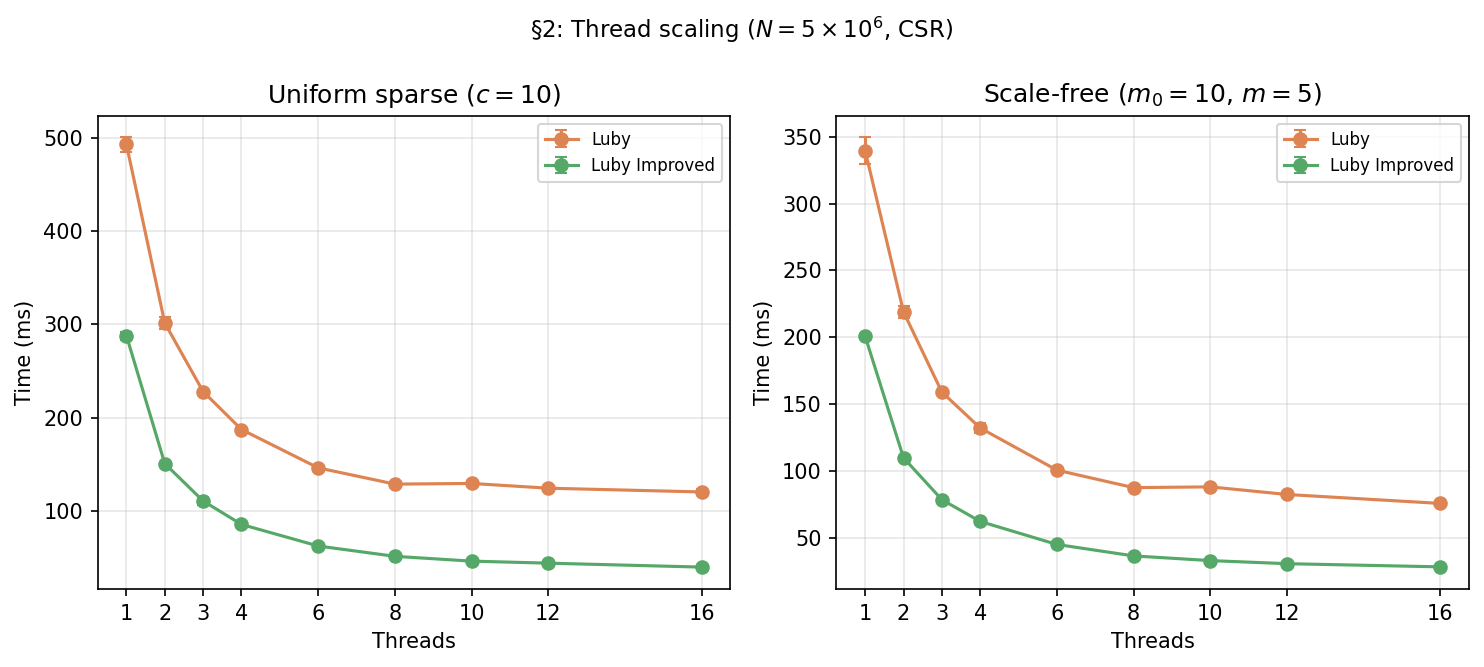
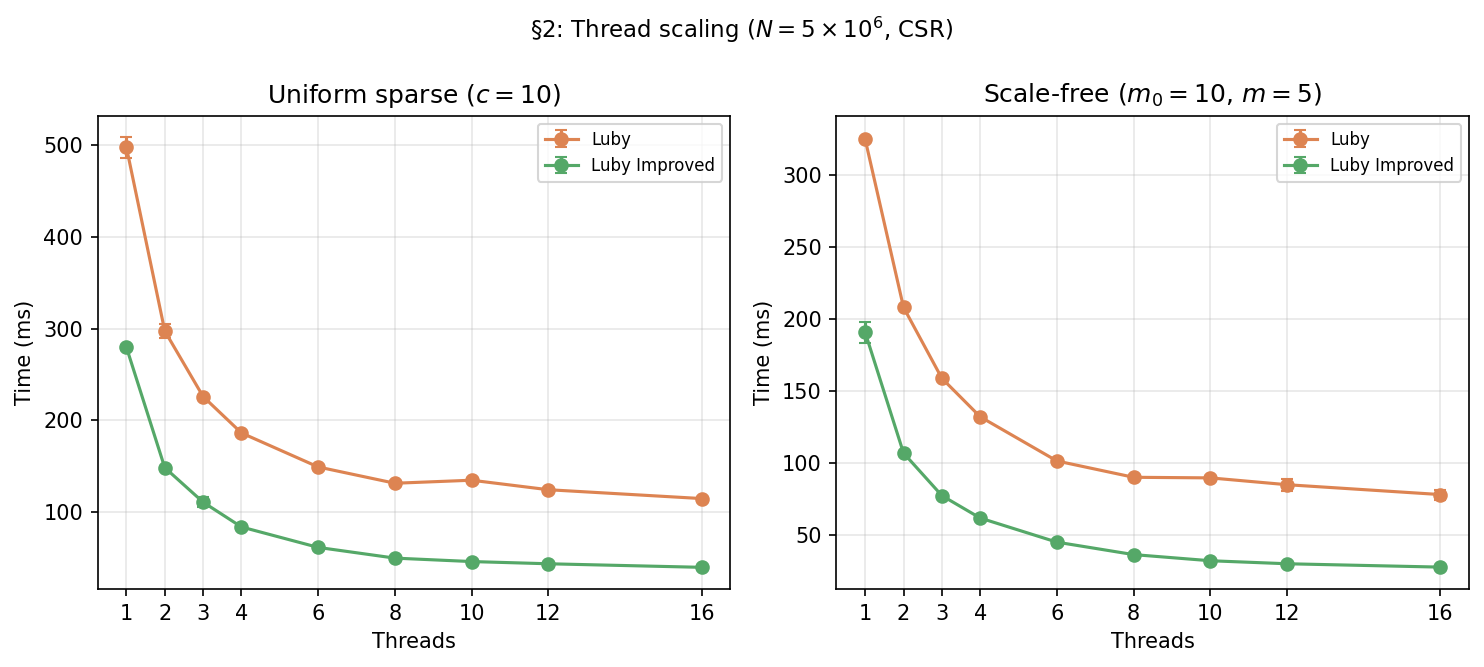
update data with warm runs

diff --git a/report/report.tex b/report/report.tex
@@ -264,19 +264,19 @@ The degree distribution significantly impacts parallel performance. Table~\ref{t
         \toprule
         Topology & Sequential (ms) & Luby 16 threads (ms) & Improved 16 threads (ms) & GPU (ms) \\
         \midrule
-        Uniform $c=1$  & 31.8961 & 47.6584  & 16.9344  & 28.9346  \\
-        Uniform $c=2$  & 27.5082 & 64.5012  & 19.9628  & 28.4627  \\
-        Uniform $c=5$  & 29.3123 & 86.6423  & 27.4206  & 40.5110  \\
-        Uniform $c=10$ & 34.8852 & 114.1140 & 39.7831  & 66.2198  \\
-        Uniform $c=25$ & 44.0597 & 138.1760 & 62.4163  & 154.6760 \\
-        Uniform $c=50$ & 47.3772 & 148.9450 & 78.7484  & 310.1740 \\
+        Uniform $c=1$  & 29.8218 & 46.3624  & 16.4497  & 23.4822  \\
+        Uniform $c=2$  & 26.3609 & 64.8497  & 21.6166  & 27.5941  \\
+        Uniform $c=5$  & 25.2983 & 86.5670  & 28.0894  & 41.1139  \\
+        Uniform $c=10$ & 33.9616 & 115.7430 & 40.2445  & 66.1806  \\
+        Uniform $c=25$ & 43.2695 & 141.2790 & 63.0361  & 153.0760 \\
+        Uniform $c=50$ & 46.6314 & 151.6660 & 78.6806  & 306.6160 \\
         \midrule
-        SF $m=1$       & 27.5367 & 41.9097  & 17.3866  & 21.5663  \\
-        SF $m=2$       & 27.5601 & 51.9279  & 19.1247  & 27.9764  \\
-        SF $m=5$       & 27.9457 & 76.5628  & 27.9953  & 40.4749  \\
-        SF $m=10$      & 36.3662 & 109.5600 & 37.4478  & 65.5914  \\
-        SF $m=25$      & 50.1574 & 155.3150 & 60.0713  & 149.7460 \\
-        SF $m=50$      & 56.2210 & 187.2190 & 80.8886  & 303.7320 \\
+        SF $m=1$       & 26.5591 & 40.0790  & 16.2432  & 20.1628  \\
+        SF $m=2$       & 26.0787 & 51.2037  & 18.8560  & 26.8340  \\
+        SF $m=5$       & 27.6661 & 76.4741  & 27.0214  & 40.3522  \\
+        SF $m=10$      & 35.5869 & 107.2000 & 37.2679  & 64.9956  \\
+        SF $m=25$      & 49.1104 & 156.2280 & 59.8320  & 147.9760 \\
+        SF $m=50$      & 54.3067 & 191.3050 & 80.5604  & 300.6530 \\
         \bottomrule
     \end{tabular}
 \end{table}